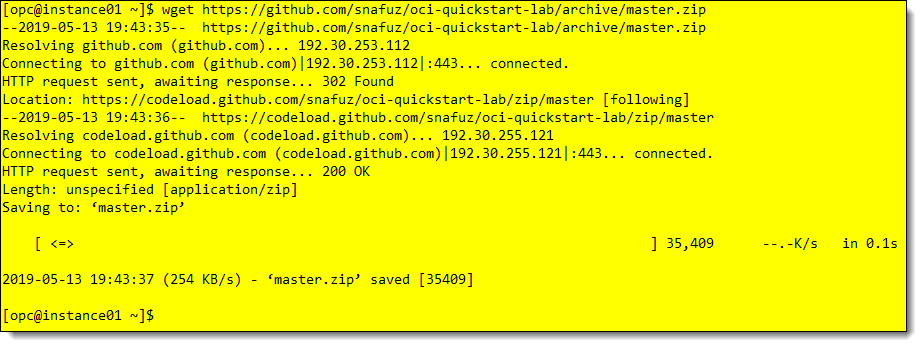
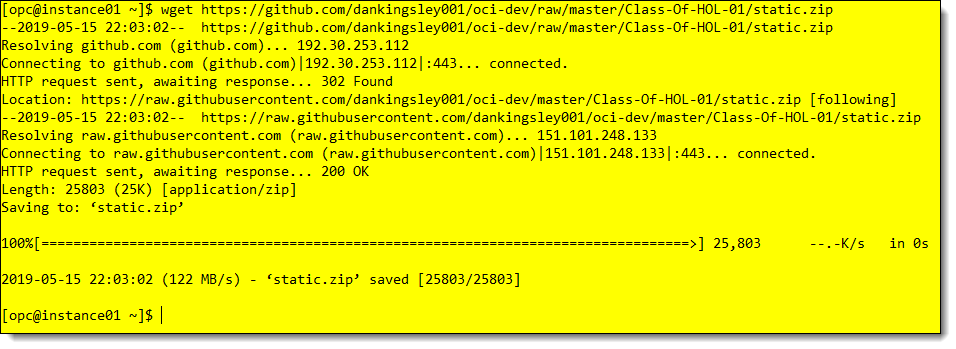
update and fix zip

diff --git a/Class-Of-HOL-01/Class-Of-Lab-04.md b/Class-Of-HOL-01/Class-Of-Lab-04.md
@@ -180,7 +180,7 @@ Policies](https://docs.cloud.oracle.com/iaas/Content/Block/Tasks/schedulingvolum
 
 4. In the next steps, we'll download a pre-configured web application and install it on our instance.  Download the application zip file and unzip the package into the opc home directory.  Use the *wget* command to download the static web application.
 
-```wget https://github.com/snafuz/oci-quickstart-lab/archive/master.zip```
+```wget https://github.com/dankingsley001/oci-dev/raw/master/Class-Of-HOL-01/static.zip```
 
 
 ![](./media/image104.png)
@@ -189,7 +189,7 @@ Policies](https://docs.cloud.oracle.com/iaas/Content/Block/Tasks/schedulingvolum
 
 Unzip the file into the opc home directory.
 
-```unzip master.zip```
+```unzip static.zip```
 
 ![](./media/image105.png)
 
